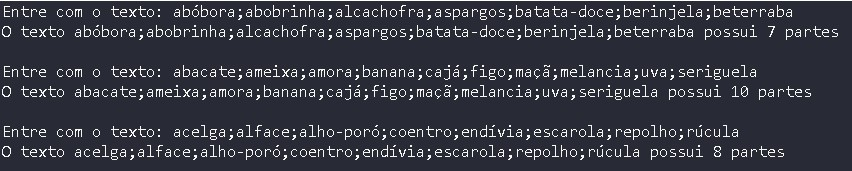
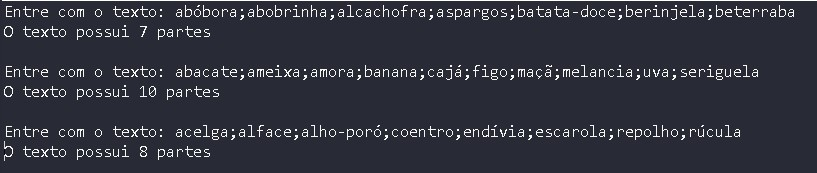
Atualizando codigo e imagem

diff --git a/primeira_aula/view/E02_View.java b/primeira_aula/view/E02_View.java
@@ -11,24 +11,15 @@ public class E02_View {
 		E02_Controller checkText = new E02_Controller();
 		int count;
 
-		System.out.print("Entre com o texto: ");
-		String in_text = scanner.next();
 		
-		count = checkText.count_parts(in_text, ";");
-		System.out.printf("O texto %s possui %d partes\n\n", in_text, count);
-		
-		System.out.print("Entre com o texto: ");
-		in_text = scanner.next();
-		
-		count = checkText.count_parts(in_text, ";");
-		System.out.printf("O texto %s possui %d partes\n\n", in_text, count);
-		
-		System.out.print("Entre com o texto: ");
-		in_text = scanner.next();
-		
+		for (int i = 0; i < 3; i++) {
+			System.out.print("Entre com o texto: ");
+			String in_text = scanner.next();
+			count = checkText.count_parts(in_text, ";");
+			System.out.printf("O texto possui %d partes\n\n", count);
+		}
 		scanner.close();
-		count = checkText.count_parts(in_text, ";");
-		System.out.printf("O texto %s possui %d partes\n\n", in_text, count);
+		
 	}
 
 }
